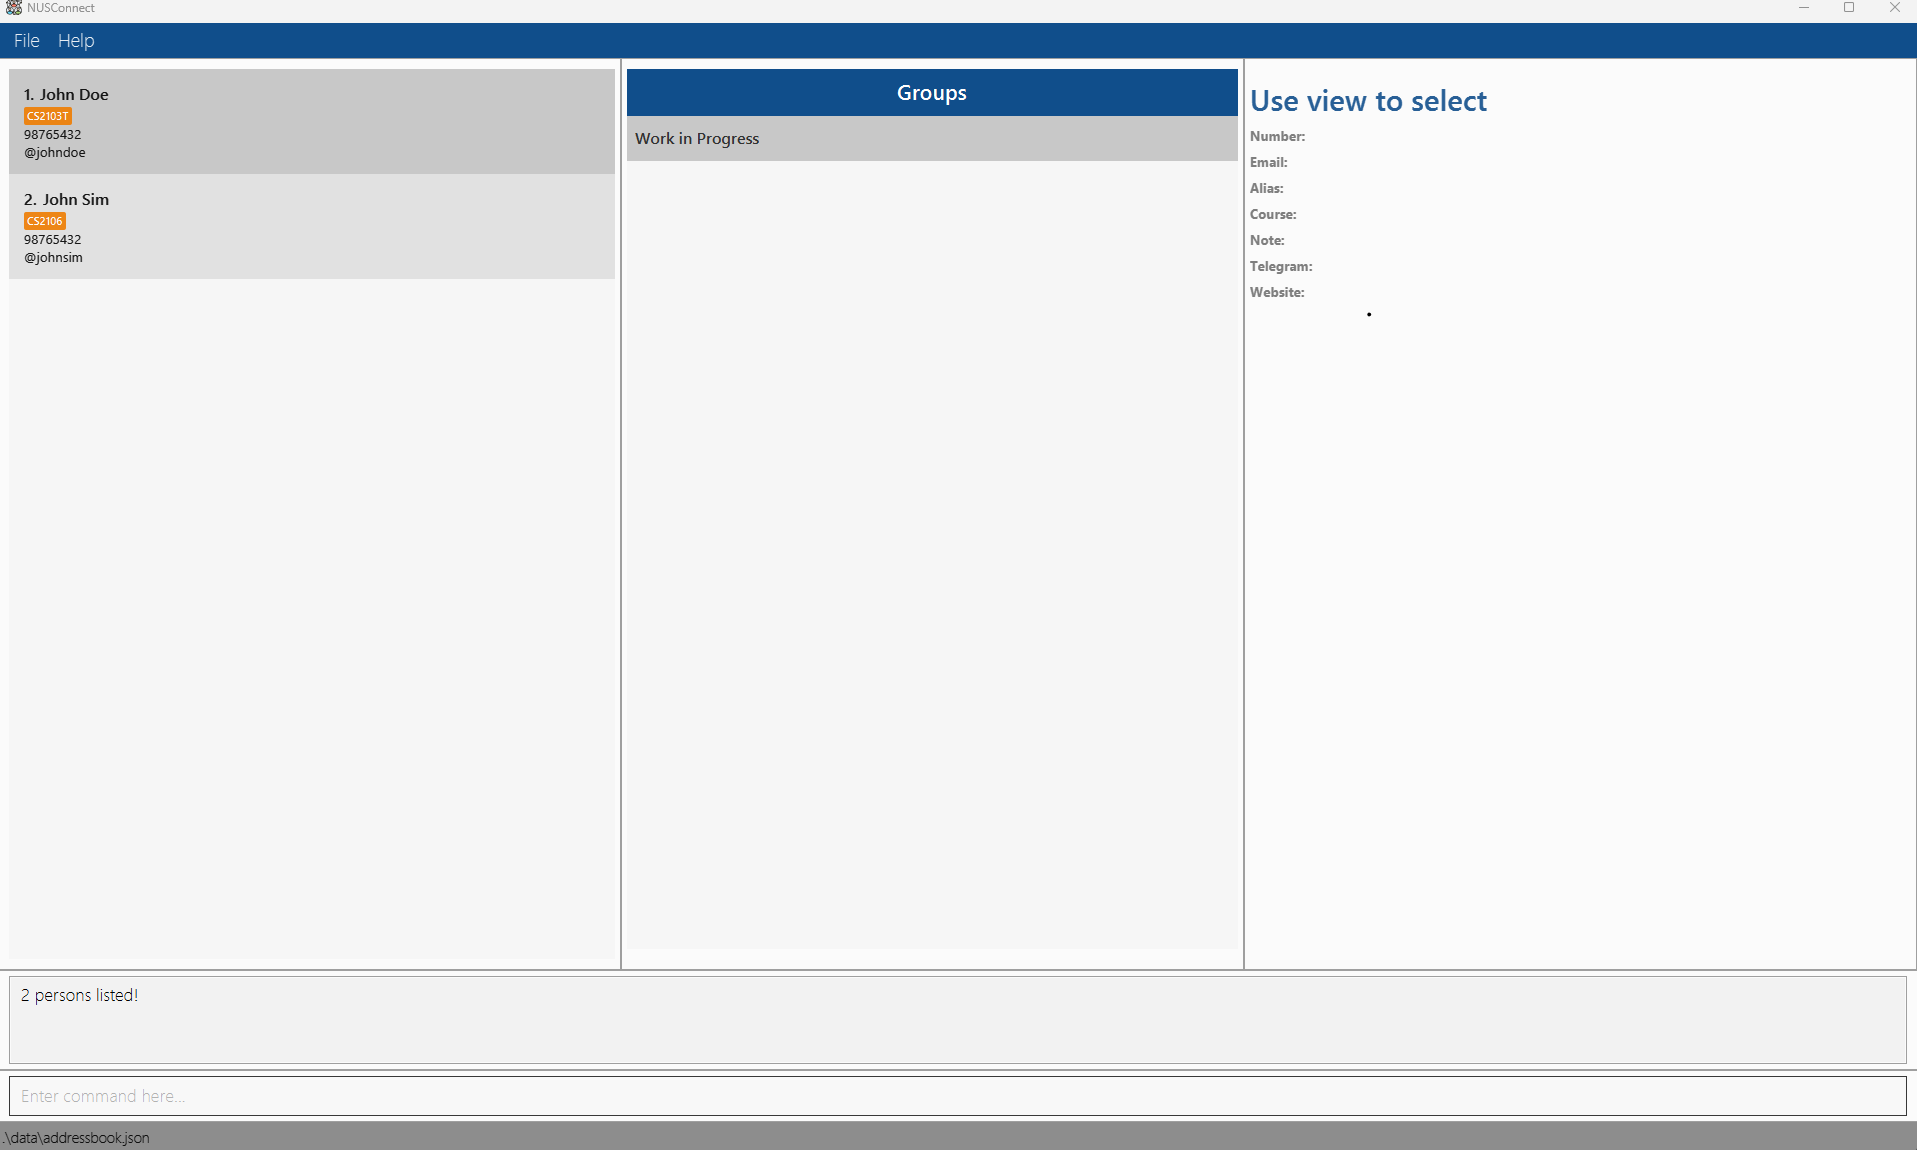
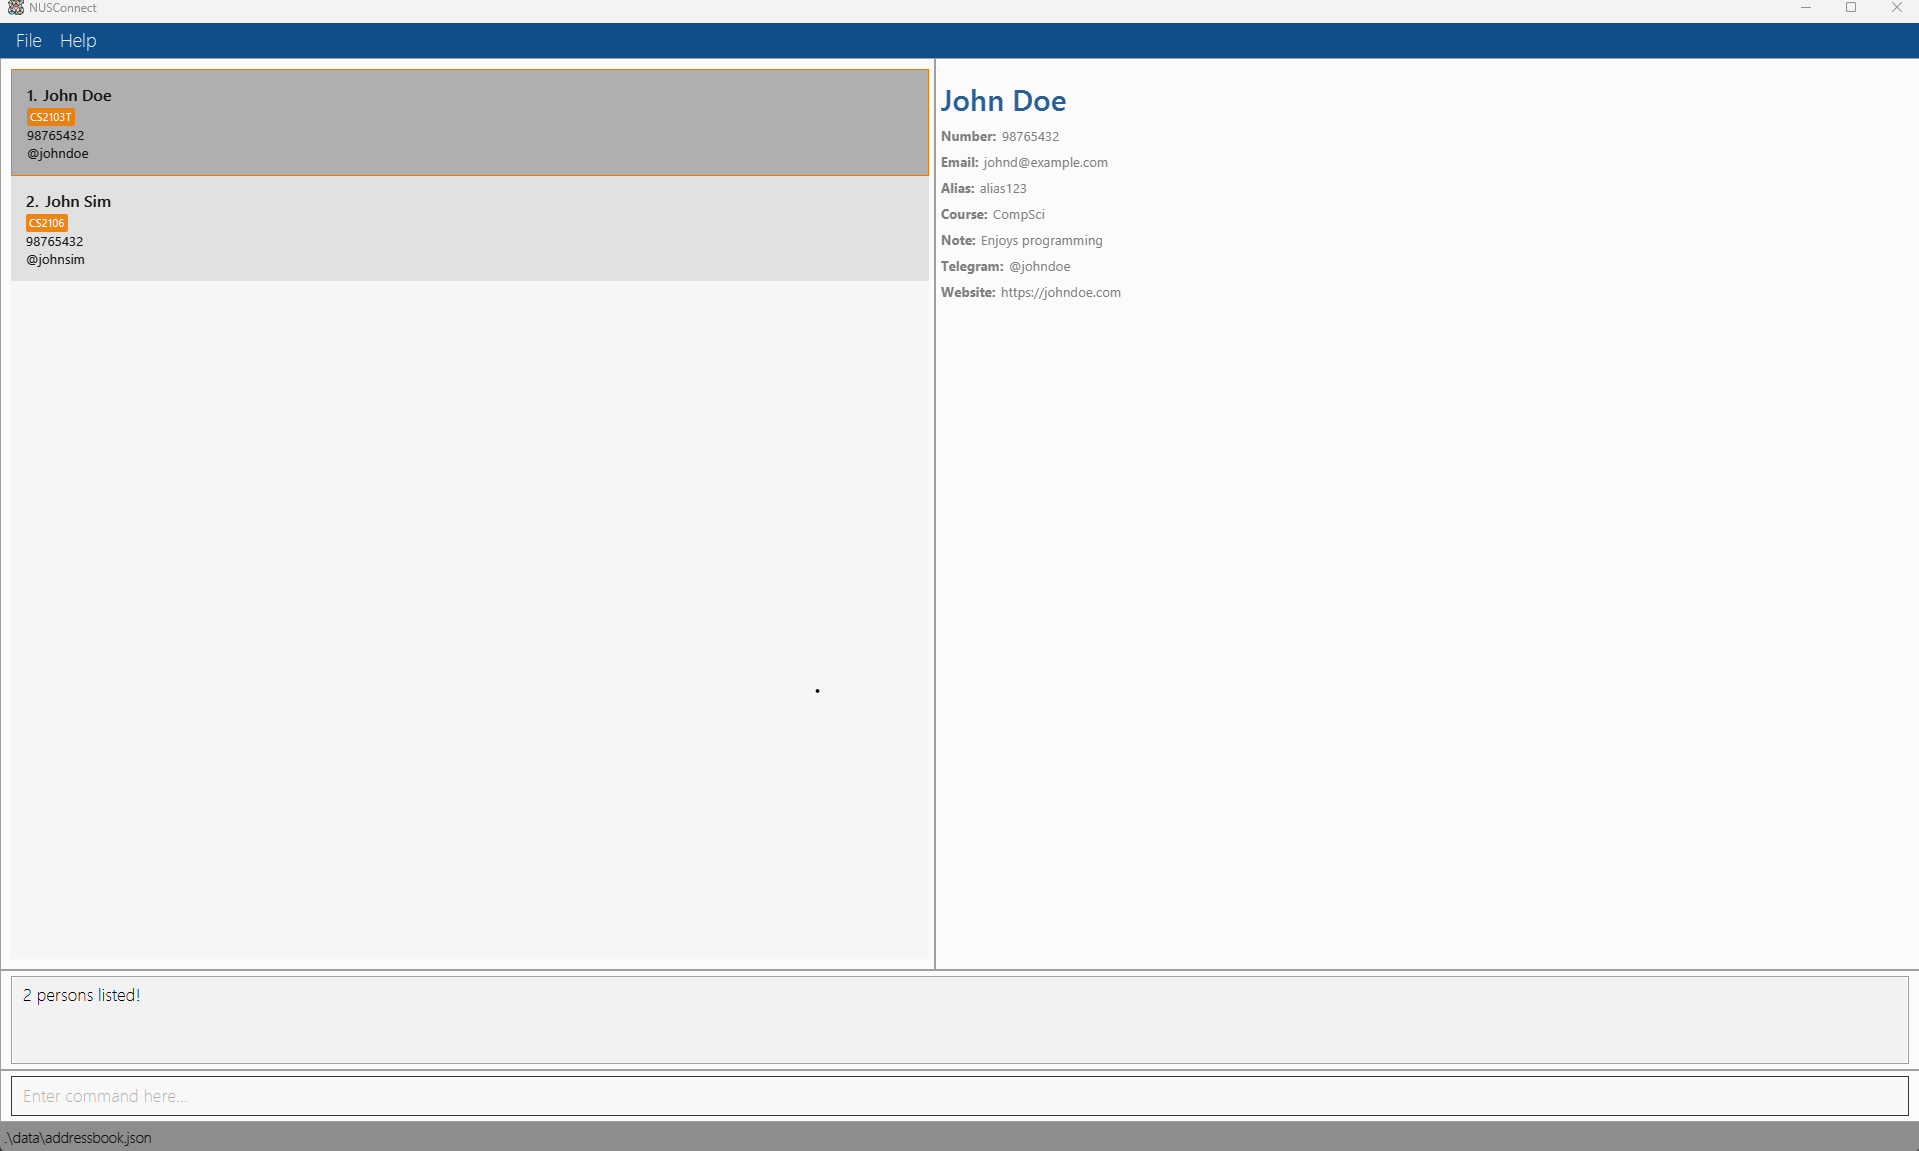
Update image in user guide

Changed region(s): [[0.0, 0.0, 0.7694, 0.2739], [0.0, 0.913, 1.0, 1.0], [0.0, 0.8217, 1.0, 0.8826]]

diff --git a/docs/UserGuide.md b/docs/UserGuide.md
@@ -208,10 +208,11 @@ _Details coming soon ..._
 
 Action | Format, Examples
 --------|------------------
-**Add** | `add n/NAME p/PHONE_NUMBER e/EMAIL a/ADDRESS [t/TAG]…` <br> e.g., `add n/James Ho p/22224444 e/jamesho@example.com a/123, Clementi Rd, 1234665 t/friend t/colleague`
+**Add** | `add n/NAME p/PHONE_NUMBER e/EMAIL a/ADDRESS [m/MODULE]…` <br> e.g., `add n/James Ho p/22224444 e/jamesho@example.com a/123, Clementi Rd, 1234665 m/CS2103T`
 **Clear** | `clear`
 **Delete** | `delete INDEX [MORE_INDICES]`<br> e.g., `delete 3` `delete 1 3 5`
-**Edit** | `edit INDEX [n/NAME] [p/PHONE_NUMBER] [e/EMAIL] [a/ADDRESS] [t/TAG]…`<br> e.g.,`edit 2 n/James Lee e/jameslee@example.com`
+**View** | `view INDEX` <br> e.g., `view 1`
+**Edit** | `edit INDEX [n/NAME] [p/PHONE_NUMBER] [e/EMAIL] [a/ADDRESS] [m/MODULE]…`<br> e.g.,`edit 2 n/James Lee e/jameslee@example.com`
 **Find** | `find KEYWORD [MORE_KEYWORDS]`<br> e.g., `find James Jake`
 **List** | `list`
 **Help** | `help`
